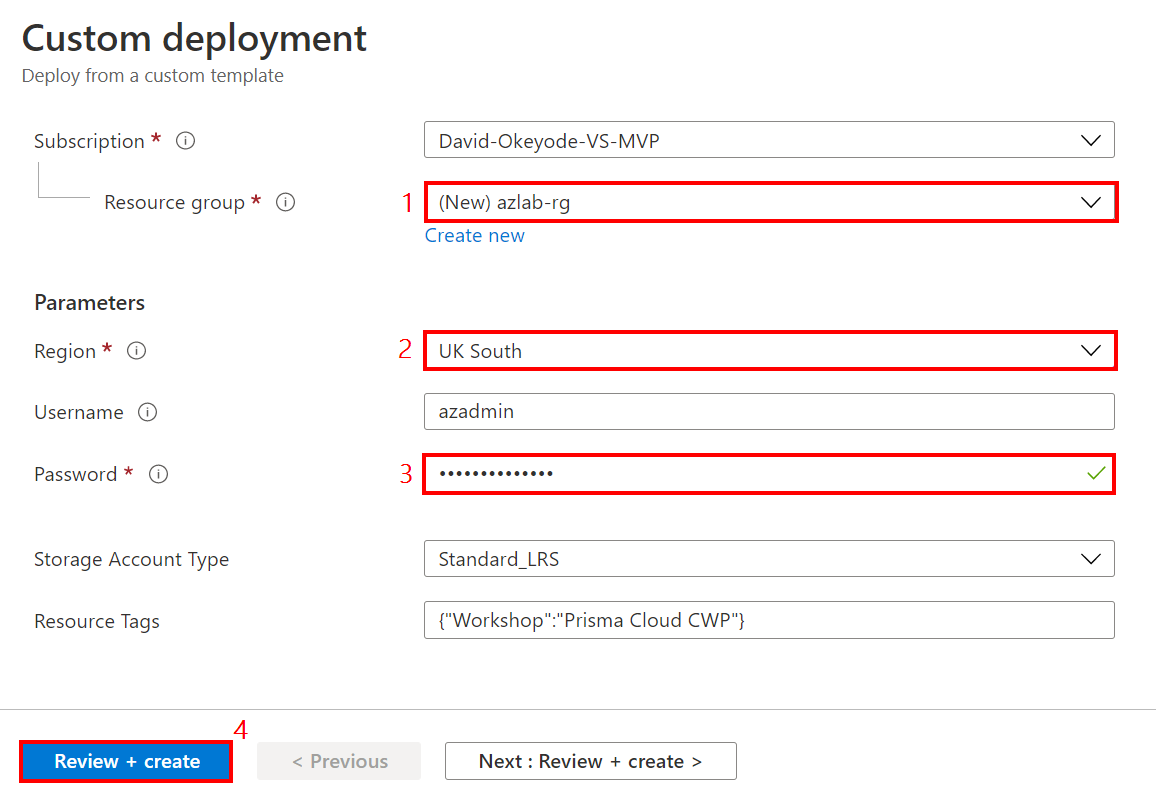
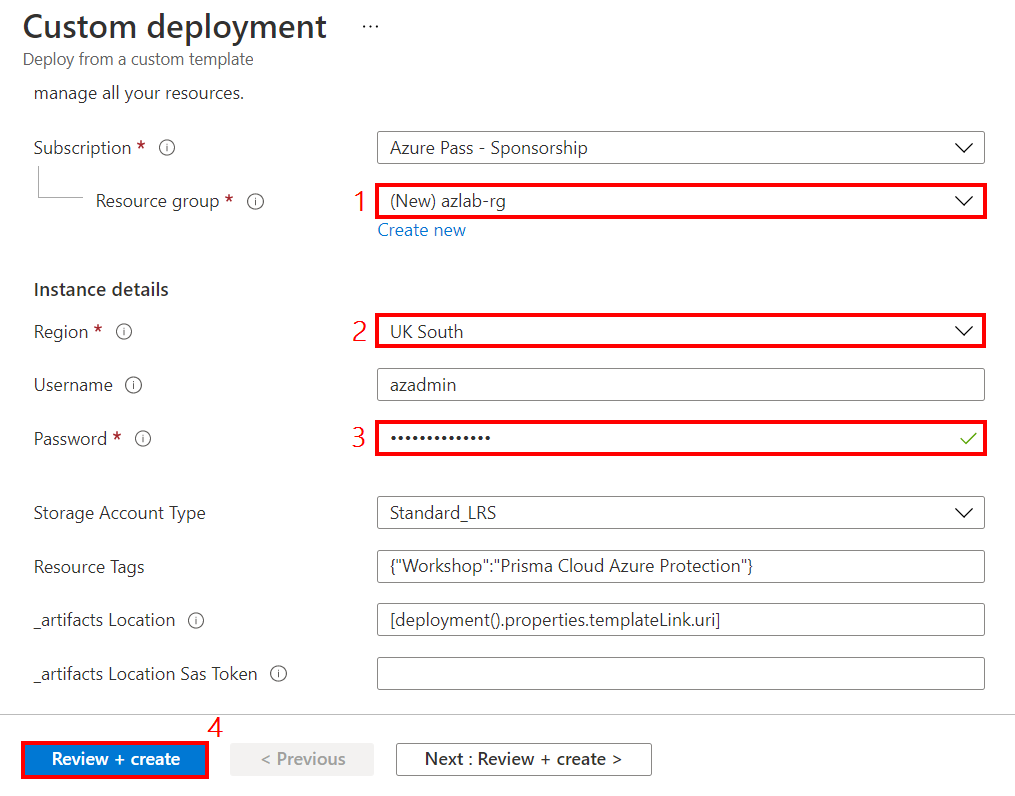
fixed template bug

diff --git a/workshops/azure-cloud-protection/modules/1-prepare-the-environment.md b/workshops/azure-cloud-protection/modules/1-prepare-the-environment.md
@@ -39,6 +39,8 @@ azlab-kv-[uniqestring] | Key vault | Demonstrating Key Vault related recommendat
 * **Password**: Enter a complex password. This password will be used across services like VMs and SQL databases
 * **Storage Account Type**: Leave the default value
 * **Resource Tags**: Leave the default value
+* **_artifacts Location**: Leave the default value
+* **_artifacts Location Sas Token**: Leave the default value
 * Click **Review and Create**
 
 ![template-parameter](../images/1-template-parameter.png)
